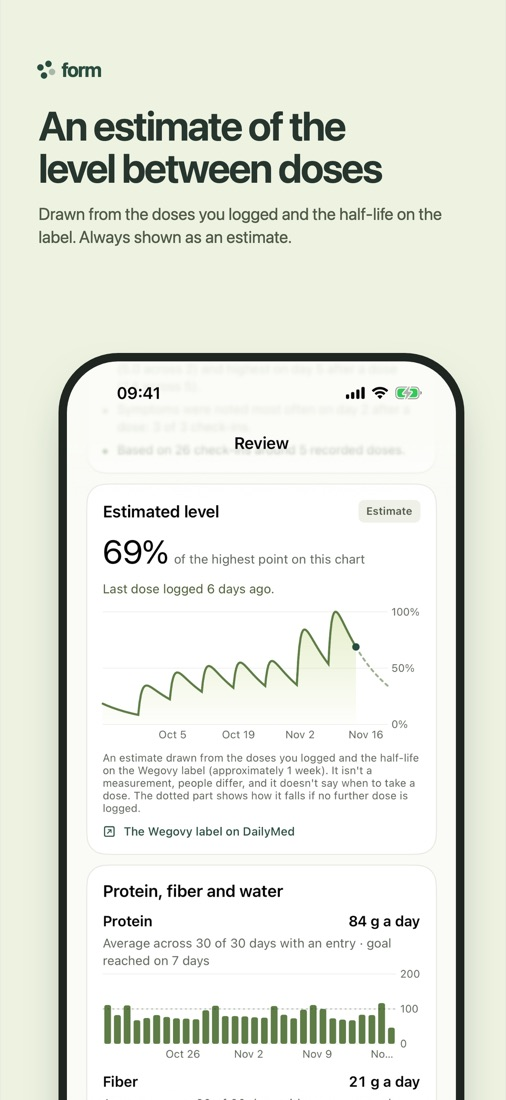
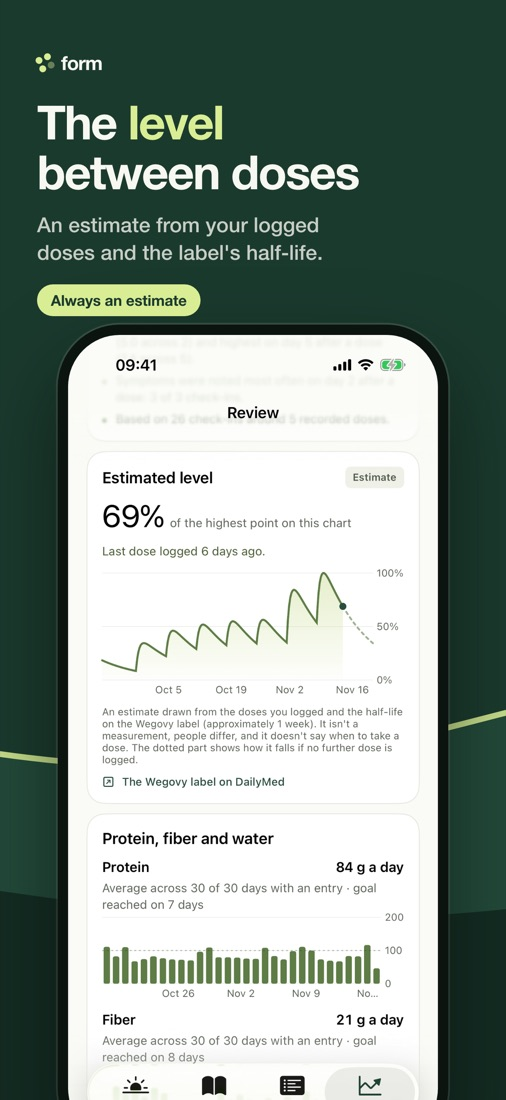
Use the panorama screenshots on the home page
The App Store listing now uses the dark set with one ribbon across the frames; the home page shows its first
three frames.

diff --git a/index.html b/index.html
@@ -30,9 +30,9 @@
   <p class="meta">Coming soon to the App Store as “Form: GLP-1 &amp; Peptide Tracker”. Requires iOS 17 or later.</p>
 
   <div class="shots">
-    <img src="img/today.jpg" width="506" height="1100" alt="Form's Today screen: two medicine plans with the next dose, a Log dose button and how much supply is left.">
-    <img src="img/weight.jpg" width="506" height="1100" alt="Form's Weight screen: the change since treatment started, the change per week, and a chart with a dose change marked.">
-    <img src="img/level.jpg" width="506" height="1100" alt="Form's estimated level chart: a curve that rises after each logged dose and falls between doses, labelled as an estimate.">
+    <img src="img/today.jpg" width="506" height="1100" alt="Your GLP-1 plan, handled: Form's Today screen with two medicine plans, the next dose and a Log dose button.">
+    <img src="img/weight.jpg" width="506" height="1100" alt="Watch the trend, not the day: Form's Weight screen with the change since treatment started and a chart with a dose change marked.">
+    <img src="img/level.jpg" width="506" height="1100" alt="The level between doses: Form's estimated level chart, a curve that rises after each logged dose, labelled as an estimate.">
   </div>
 
   <h2 id="what-form-does">What Form does</h2>
